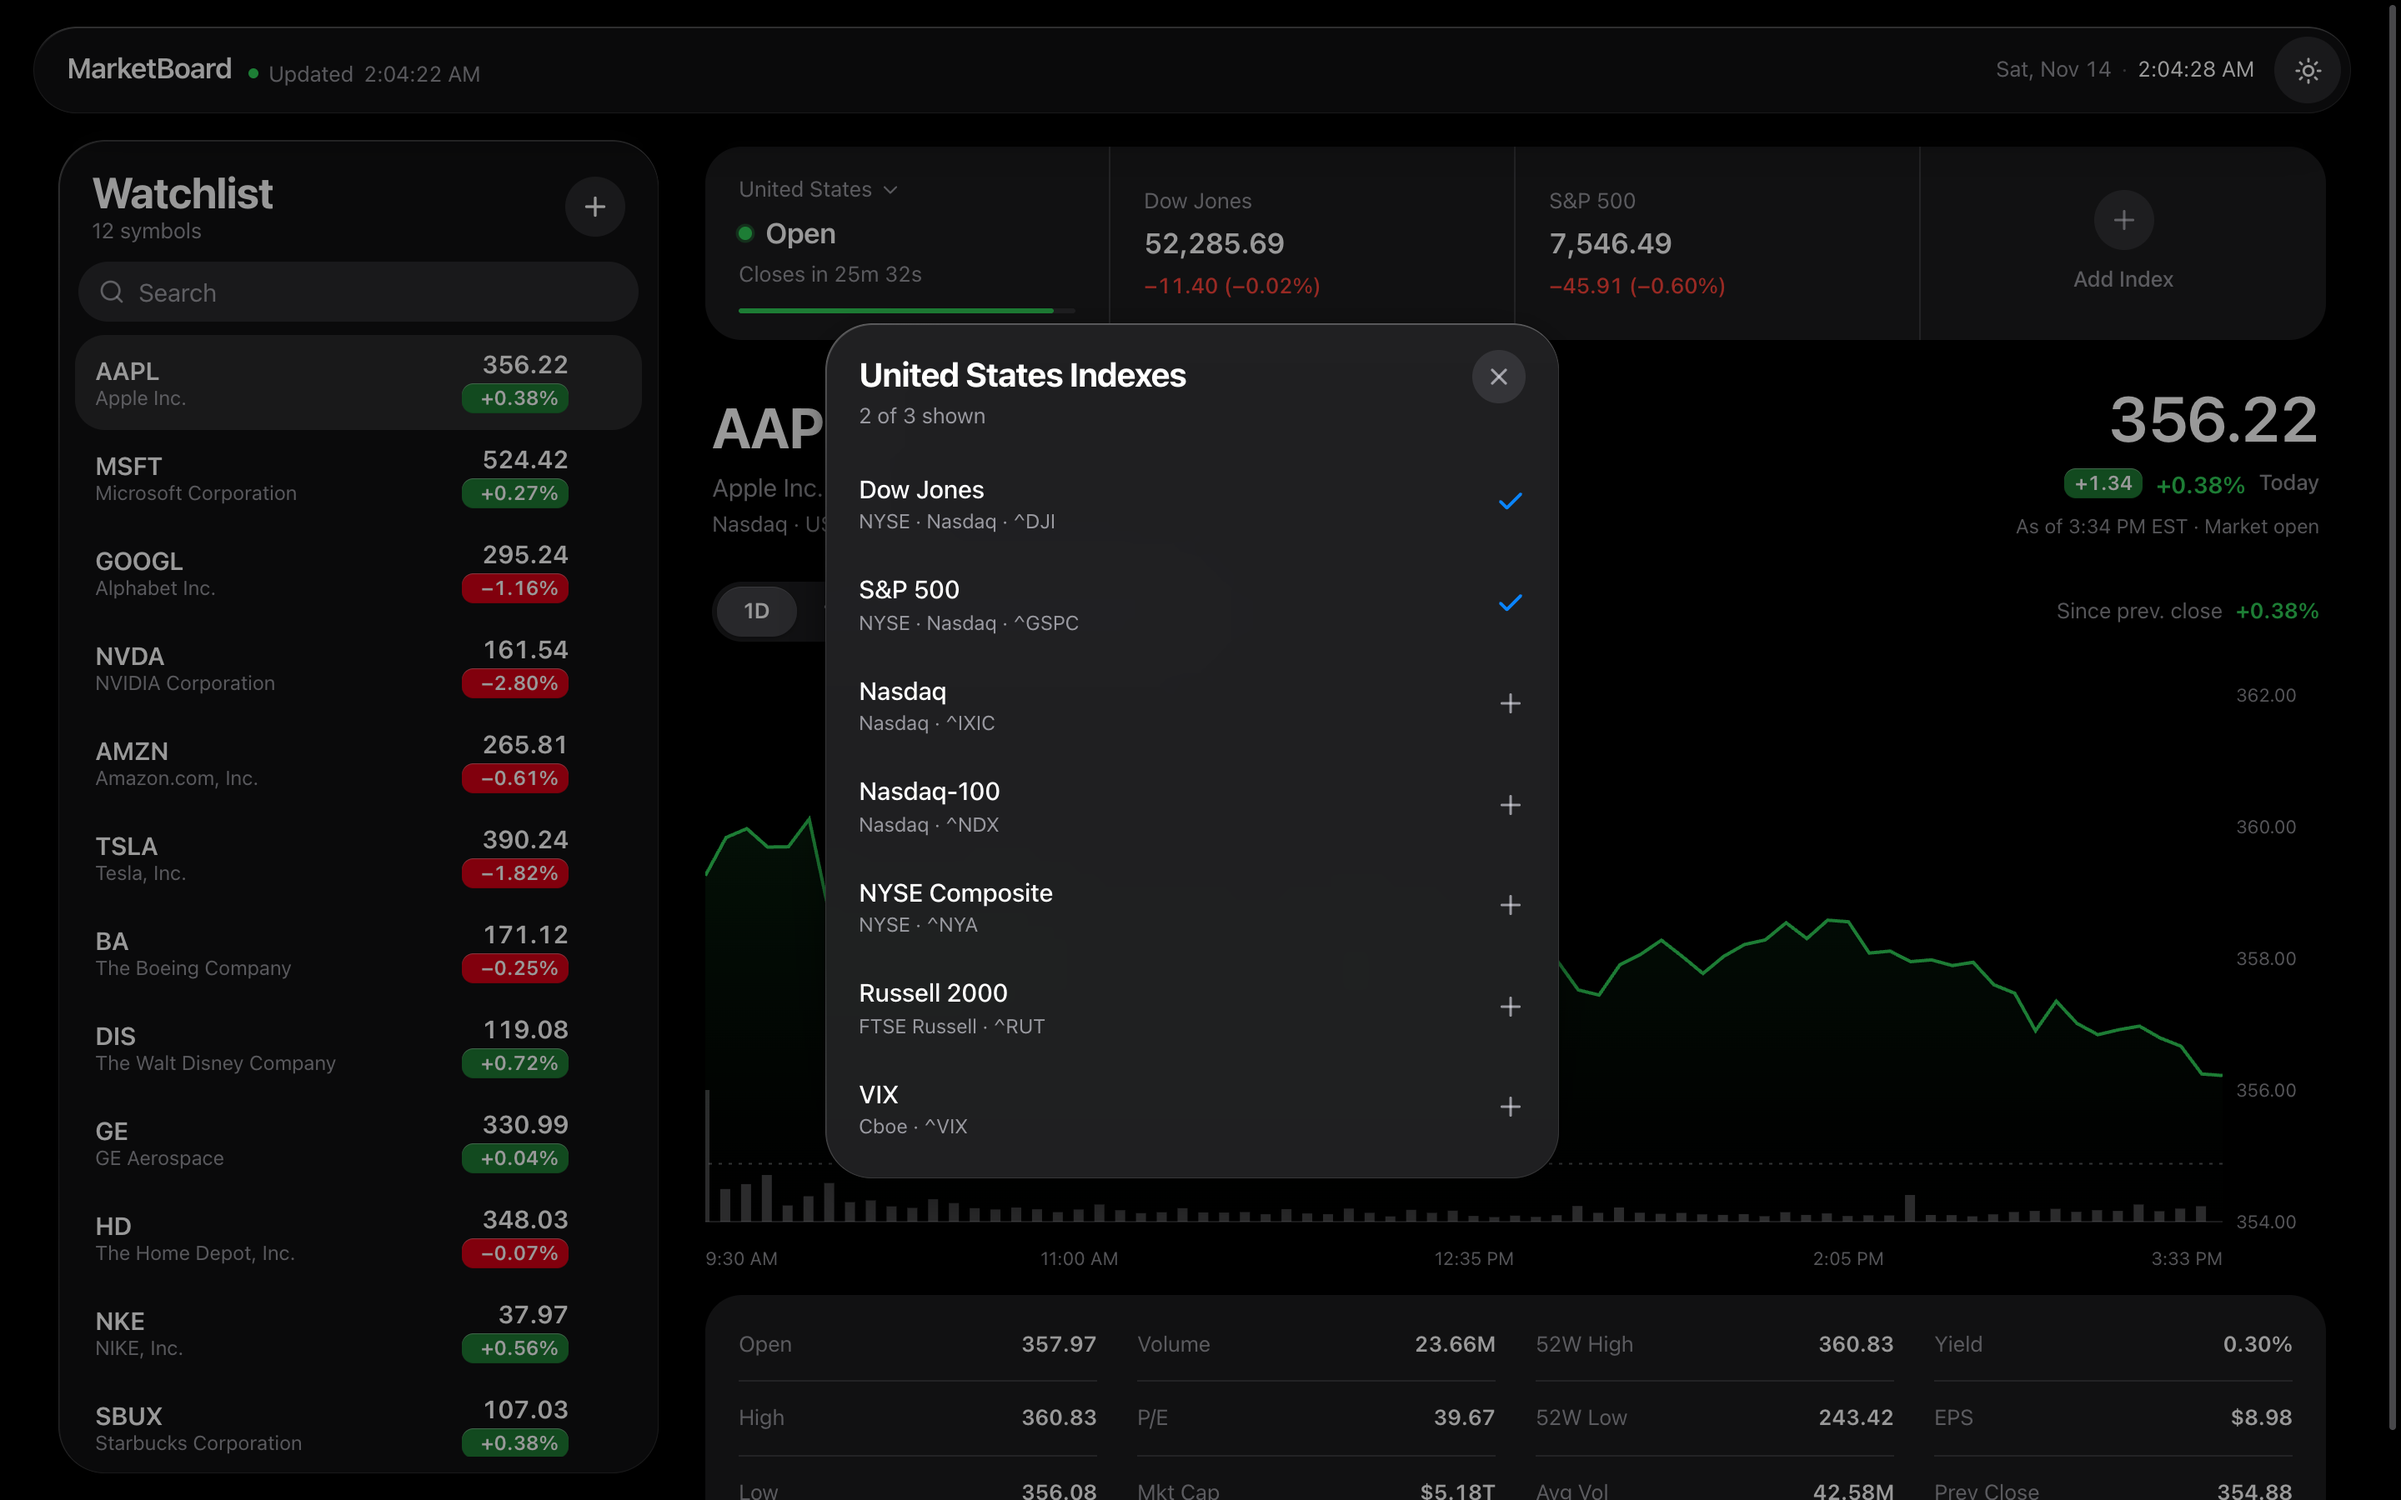
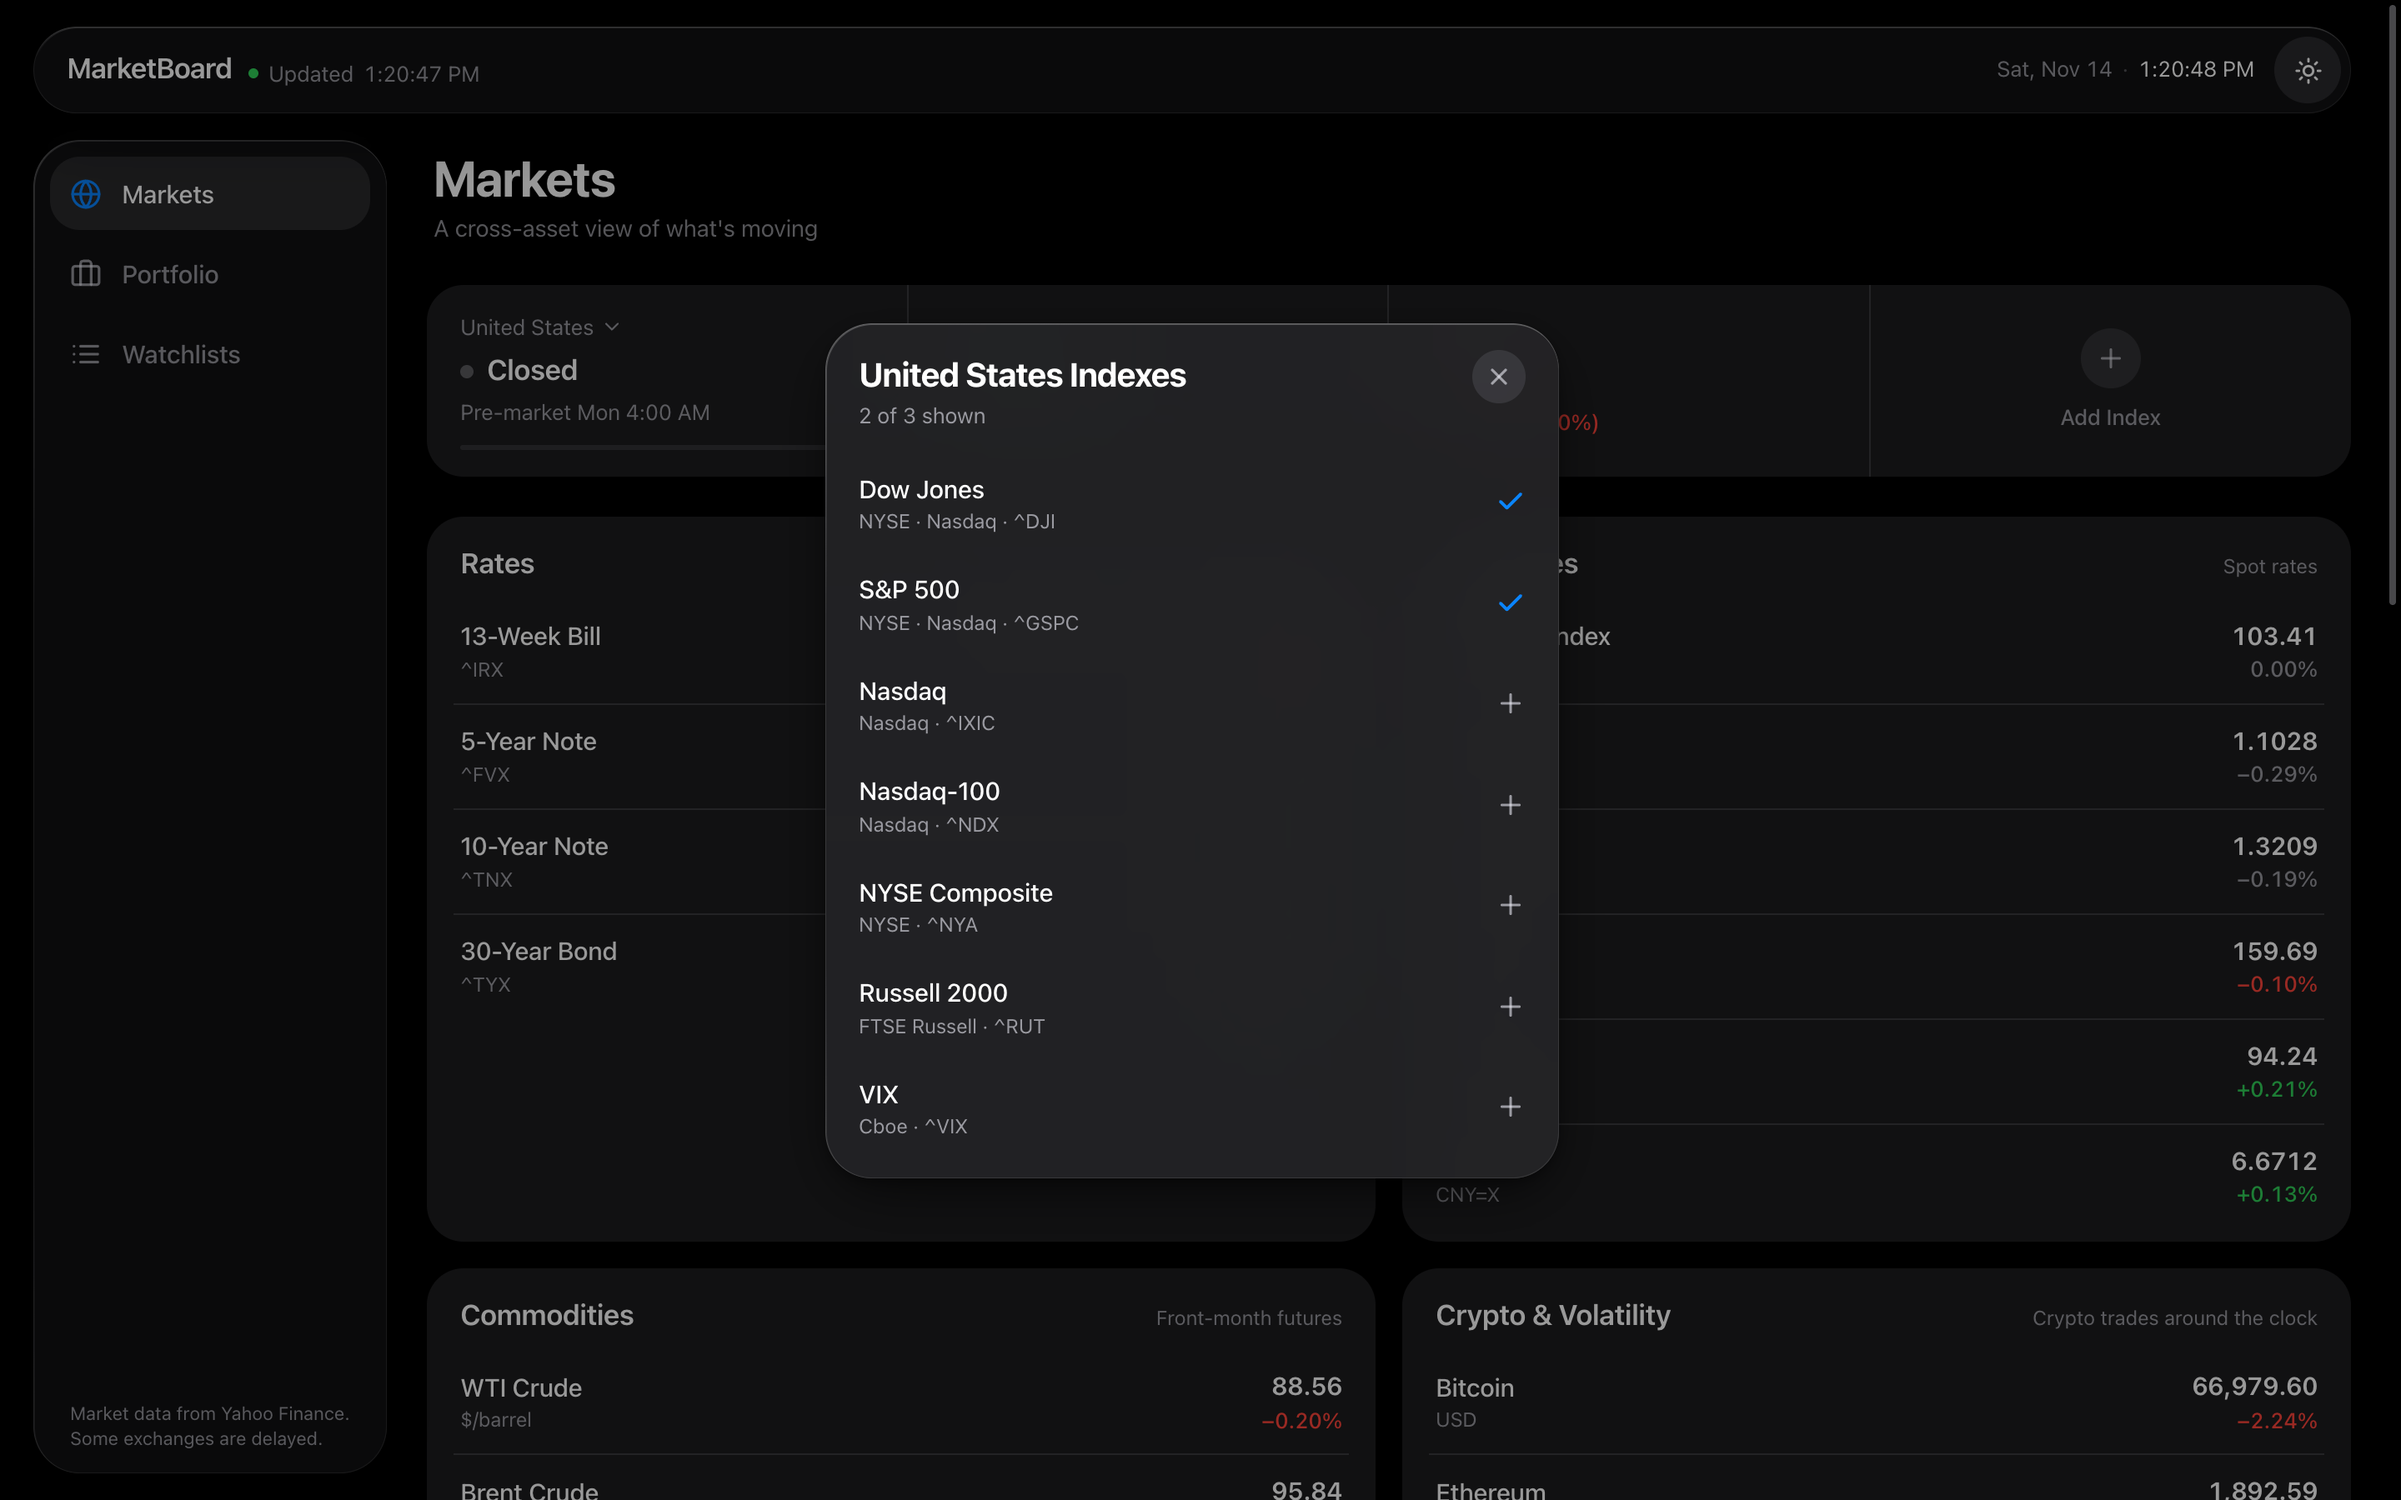
Update README screenshots for the new layout
Six screenshots from the running app with live Yahoo Finance data: Markets
(dark), Watchlists (light), an example Portfolio, both sheets, and the
phone layout with the tab bar.

diff --git a/README.md b/README.md
@@ -2,9 +2,9 @@
 
 A markets dashboard, portfolio tracker and watchlist app with an Apple-style Liquid Glass interface, built with Next.js. Quotes, charts, index levels, rates, currencies, commodities, movers and ticker search come from Yahoo Finance through a small server route, so no API key is needed.
 
-![MarketBoard in dark mode: watchlist, US market status, index strip and the AAPL intraday chart](docs/screenshots/dark.png)
+![Markets page in dark mode: sidebar navigation, US market status, index strip, Treasury yields and currencies](docs/screenshots/dark.png)
 
-![MarketBoard in light mode](docs/screenshots/light.png)
+![Watchlists page in light mode: a watchlist beside the AAPL intraday chart and fundamentals](docs/screenshots/light.png)
 
 ## Features
 
@@ -32,6 +32,10 @@ A glass sidebar (a floating tab bar on phones) switches between three sections. 
 - **Allocation.** By holding, by sector and by currency, as ranked bars.
 - **Backup.** **Export** downloads your watchlists and portfolio as a JSON file; **Import** restores one after a confirmation.
 
+![Portfolio page with an example portfolio: summary tiles, holdings table with USD values and P&L, and allocation](docs/screenshots/portfolio.png)
+
+<sub>The portfolio above is an example; prices and exchange rates are live.</sub>
+
 ### Watchlists
 - **Multiple lists.** Create, rename, switch and delete named watchlists.
 - **The list.** Price and daily change for each symbol. Search it, add any ticker through Yahoo Finance autocomplete, or remove one with the × button that appears on hover (or the Delete key), with **Undo**.
@@ -55,10 +59,10 @@ A glass sidebar (a floating tab bar on phones) switches between three sections. 
 | ![United States Indexes sheet with Dow Jones and S&P 500 selected](docs/screenshots/index-picker.png) | ![World Markets sheet listing exchanges with live open/closed status](docs/screenshots/world-markets.png) |
 
 <p align="center">
-  <img src="docs/screenshots/mobile.png" alt="MarketBoard on a phone, showing the AAPL chart" width="320" />
+  <img src="docs/screenshots/mobile.png" alt="Markets page on a phone, with the floating glass tab bar" width="320" />
 </p>
 
-<sub>Screenshots taken from the running app with live Yahoo Finance data on November 13, 2026, during the US session.</sub>
+<sub>Screenshots taken from the running app with live Yahoo Finance data on Saturday, November 14, 2026, so markets show as closed with Friday's closing prices.</sub>
 
 ## Design
 
